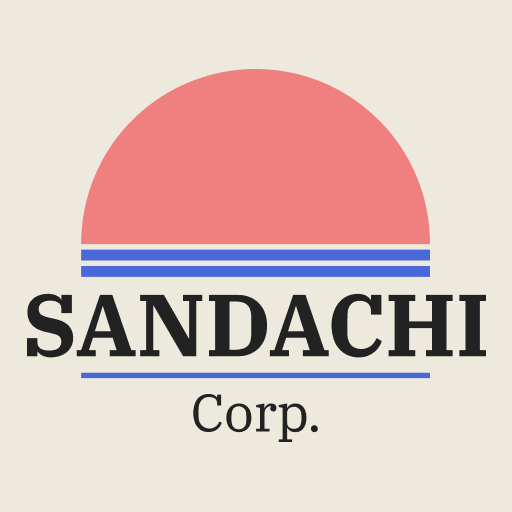
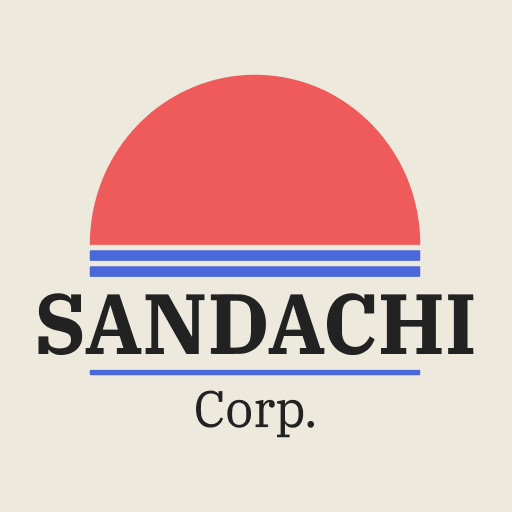
Once again, new colour

Changed region(s): [[0.0312, 0.125, 0.9688, 0.875]]

diff --git a/index.js b/index.js
@@ -35,7 +35,7 @@ const logo = `
             <path class="text" d="M492.33 780.3C483.96 803.73 449.3 802.98 441.75 778.89C436.26 761.37 441.31 738.55 462.51 734.95C468.13 733.997 473.533 734.62 478.72 736.82C494.9 743.69 497.55 765.67 492.33 780.3ZM483.13 755.34C481.49 739.08 459.3 735.24 452.96 749.69C451.74 752.47 451.047 756.937 450.88 763.09C450.55 774.99 450.75 789.14 464.64 790.88C475.23 792.22 482.85 785.51 483.45 774.86C483.843 767.88 483.737 761.373 483.13 755.34Z" fill="#222222"/>
             <path class="text" d="M573.56 788.24L573.57 812.49C573.57 812.937 573.793 813.16 574.24 813.16H583.8C584.227 813.16 584.44 813.373 584.44 813.8V818.41C584.44 818.572 584.377 818.727 584.264 818.841C584.152 818.956 583.999 819.02 583.84 819.02L555.77 819.01C555.277 819.01 555.03 818.763 555.03 818.27V814.08C555.029 813.963 555.051 813.847 555.095 813.739C555.139 813.63 555.204 813.531 555.287 813.448C555.369 813.364 555.468 813.298 555.576 813.252C555.685 813.206 555.802 813.181 555.92 813.18L562.99 813.14C563.154 813.14 563.312 813.074 563.428 812.956C563.545 812.837 563.61 812.677 563.61 812.51L563.62 744.57C563.62 744.203 563.44 743.99 563.08 743.93L555.54 742.64C555.397 742.614 555.268 742.539 555.174 742.427C555.081 742.316 555.03 742.175 555.03 742.03L555.02 738.77C555.02 738.297 555.257 738.013 555.73 737.92L572.9 734.62C573.347 734.533 573.57 734.717 573.57 735.17L573.55 743.99C573.553 744.05 573.575 744.108 573.613 744.154C573.651 744.2 573.703 744.233 573.762 744.248C573.82 744.263 573.882 744.258 573.937 744.235C573.993 744.212 574.039 744.172 574.07 744.12C577.39 738 582.61 735.28 589.6 734.74C613.47 732.9 618.55 758.93 614.83 776.41C611.67 791.25 600.85 800.28 585.09 796.6C580.657 795.567 576.987 792.73 574.08 788.09C573.733 787.537 573.56 787.587 573.56 788.24ZM574.6 782.44C577.37 788.54 585.27 790.82 591.37 789.92C607.16 787.56 605.67 767.93 604.66 756.5C604.08 749.9 599.21 743.92 592.67 742.31C584.75 740.36 573.6 744.41 573.57 754.25C573.55 760.963 573.553 767.68 573.58 774.4C573.593 778.28 573.933 780.96 574.6 782.44Z" fill="#222222"/>
             <path class="text" d="M633.43 797.43C637.627 797.43 641.03 794.027 641.03 789.83C641.03 785.633 637.627 782.23 633.43 782.23C629.233 782.23 625.83 785.633 625.83 789.83C625.83 794.027 629.233 797.43 633.43 797.43Z" fill="#222222"/>
-            <path id="circle" d="M119.96 384.43C120.34 203.58 244.37 50.17 419.96 10.28C513.02 -10.87 614.47 4.37002 696.89 52.74C815.45 122.31 887.71 246.14 888.05 384.19C888.05 384.73 887.783 385 887.25 385H120.53C120.379 385 120.234 384.94 120.127 384.833C120.02 384.726 119.96 384.581 119.96 384.43Z" fill="#EF865B"/>
+            <path id="circle" d="M119.96 384.43C120.34 203.58 244.37 50.17 419.96 10.28C513.02 -10.87 614.47 4.37002 696.89 52.74C815.45 122.31 887.71 246.14 888.05 384.19C888.05 384.73 887.783 385 887.25 385H120.53C120.379 385 120.234 384.94 120.127 384.833C120.02 384.726 119.96 384.581 119.96 384.43Z" fill="#EF5B5B"/>
 </svg>
 `;
 

diff --git a/style.css b/style.css
@@ -158,10 +158,6 @@ nav {
     fill: var(--text-color);
 }
 
-#logo-link > svg > #circle {
-    fill: lightcoral;
-}
-
 #footer-links {
     display: flex;
     gap: 0.5rem;
